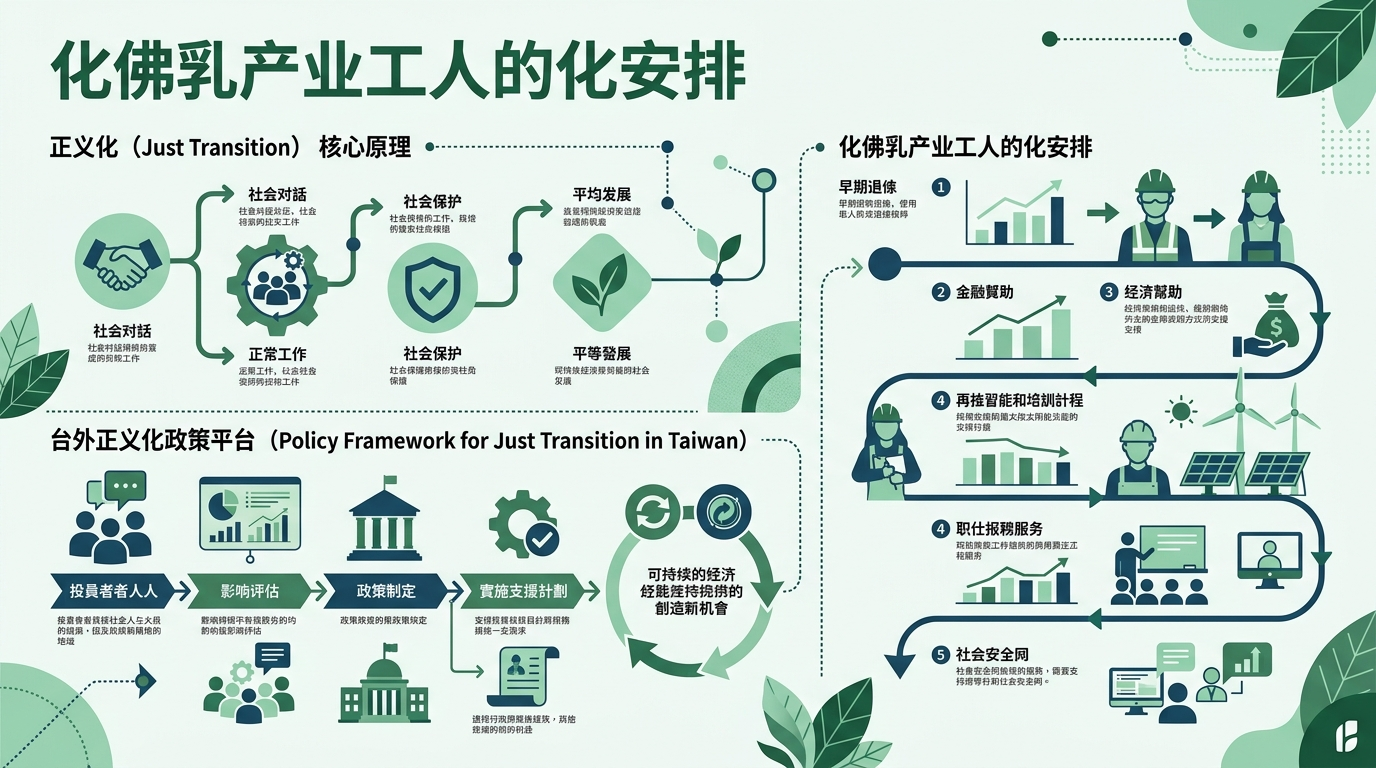
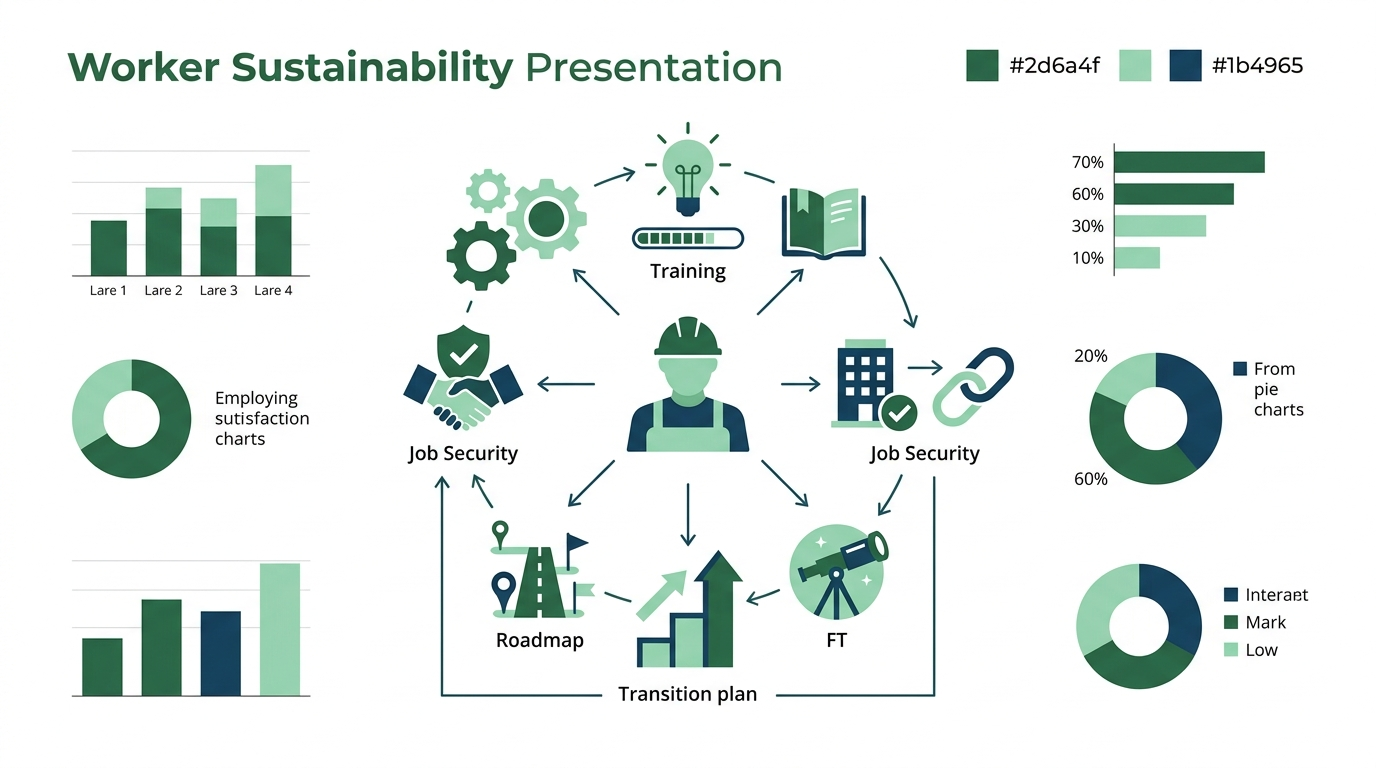
Add EP095: 公正轉型：確保沒有人在淨零路上掉隊

diff --git a/_episodes/EP095.md b/_episodes/EP095.md
@@ -1,5 +1,5 @@
 ---
-date: '2026-02-24'
+date: '2026-03-12'
 ep_id: EP095
 layout: episode
 number: 95
@@ -10,33 +10,143 @@ series_name: 永續策略、溝通與領導力
 slides:
 - image: slide1.png
   points:
-  - 公正轉型（Just Transition）的核心原則
-  - 化石燃料產業勞工的轉型安排
-  - 能源貧窮與碳費的累退效應
+  - 關懷弱勢
+  - 保障就業
+  - 能源平等
   title: 公正轉型
 - image: slide2.png
   points:
-  - 化石燃料產業勞工的轉型安排
-  - 公正轉型（Just Transition）的核心原則
-  - 台灣公正轉型的政策框架
-  title: 化石燃料產業勞工的轉型安排
+  - 培訓計畫
+  - 產業調整
+  - 就業保障
+  title: 勞工轉型
 - image: slide3.png
   points:
-  - 能源貧窮與碳費的累退效應
-  - 化石燃料產業勞工的轉型安排
-  - 台灣公正轉型的政策框架
-  title: 能源貧窮與碳費的累退效應
+  - 低收入戶
+  - 能源費負擔
+  - 救濟措施
+  title: 能源貧窮
 - image: slide4.png
   points:
-  - 台灣公正轉型的政策框架
-  - 能源貧窮與碳費的累退效應
-  - 公正轉型（Just Transition）的核心原則
-  title: 台灣公正轉型的政策框架
+  - 政府支持
+  - 產業合作
+  - 社會參與
+  title: 政策框架
 title: 公正轉型：確保沒有人在淨零路上掉隊
 ---
 
-# 公正轉型：確保沒有人在淨零路上掉隊
+這是一份關於「公正轉型：確保沒有人在淨零路上掉隊」的深度研究報告。本報告整合了 2025 年至 2026 年的最新政策脈絡、社會經濟分析以及台灣在地實踐案例，旨在為 Podcast 製作與專題影片提供紮實的論據與敘事框架。
 
-淨零轉型中的社會公平議題
+深度研究報告：公正轉型——淨零路上的社會契約
+前言：當綠色浪潮遇上社會現實
 
-> 研究報告產生中，敬請期待。
+在全球對抗氣候變遷的急迫壓力下，「淨零排放」（Net Zero）已從環保口號轉向強制的經濟轉型。然而，這場被譽為「第四次工業革命」的變革並非對所有人都是平等的。當煤電廠關閉、碳費徵收、燃油車逐步退出市場時，社會結構中的脆弱族群——從傳統高碳產業的藍領工人到入不敷出的低收入家庭——正站在衝擊的最前線。
+
+「公正轉型」（Just Transition）的核心命題在於：如果轉型的代價是由社會最弱勢的群體承擔，那麼這場綠色革命終將因缺乏社會正當性而失敗。 本報告將深入探討如何透過政策設計與企業責任，確保在邁向低碳未來的過程中，社會公平與經濟正義不被遺落。
+
+一、 公正轉型（Just Transition）的核心原則
+
+公正轉型並非單一政策，而是一套指導社會變遷的倫理與實踐框架。其起源可追溯至 1970 年代的工會運動，強調環境保護不應以犧牲勞工生計為代價。根據國際勞工組織（ILO）與聯合國氣候變遷大綱公約（UNFCCC）的共識，公正轉型包含以下三大核心維度：
+
+1. 分配正義（Distributive Justice）
+
+分配正義關注的是「成本與效益的公平分配」。在淨零過程中，綠色溢價（Green Premium）帶來的經濟收益（如綠能產業的利潤）往往集中於科技菁英與資本家，而轉型成本（如能源價格上漲、產業轉型失業）則由基層勞工與消費者負擔。公正轉型要求建立補償機制，確保綠色經濟的果實能惠及社會各階層。
+
+2. 程序正義（Procedural Justice）
+
+「沒有我們的參與，不要為我們做決定。」程序正義強調受影響群體——特別是勞工、原住民與地方社區——在決策過程中的實質參與。這不僅僅是開幾場公聽會，而是要建立制度化的勞、資、政三方對話平台。例如，當一座燃煤電廠計畫拆除時，工會應在決定下達的前三年就參與後續土地利用與員工轉置的規劃。
+
+3. 修復正義（Restorative Justice）
+
+修復正義關注的是過去受化石燃料污染影響嚴重的社區。轉型不應只是「停止污染」，更要「修復傷害」。這包括對舊工業區的環境治理、健康補償，以及利用綠能轉型的機會為這些曾經被犧牲的區域注入新的經濟動能。
+
+二、 化石燃料產業勞工的轉型安排
+
+隨著全球能源結構從「褐色」轉向「綠色」，傳統石化、鋼鐵及電力產業的勞工面臨嚴峻的就業威脅。根據 2026 年台灣氣候行動網絡（TCAN）的最新推估，台灣約有 235 萬名勞工 將直接或間接受到淨零轉型的衝擊，佔全國就業人口的 20%。
+
+1. 褐色工作消失後的失業風險
+
+高碳產業通常具有「高技術專一性」。一名在煉油廠工作二十年的技師，其技能在離岸風電場未必能直接對接。如果政府缺乏前瞻性的職能轉換規劃，這些勞工將面臨「結構性失業」。
+
+技能斷層： 綠色產業需要的是自動化控制、數據分析與電力系統工程，而傳統勞工的技能可能集中於機械維修與重工業操作。
+
+薪資缺口： 研究發現，新興綠能產業的起薪往往低於具有強大工會保障的傳統國營或重工業，這導致勞工對轉型產生強烈抵抗心理。
+
+2. 轉型安排的具體策略：澳洲與歐洲經驗
+
+為了避免大規模社會動盪，先進國家已開始實施「提前干預」模式：
+
+提前通知機制： 仿效澳洲做法，要求企業必須在關廠或大規模停產前 3 年正式通知勞工與社區，並啟動一對一的職涯諮商。
+
+技能護照： 推動勞工技能認證的數位化與模組化，讓勞工在職期間就能累積與綠能產業銜接的學分。
+
+社會保障網： 提供「轉型津貼」，補足勞工在職訓期間的收入缺口，並為屆齡退休的勞工提供提前退休的優厚選擇。
+
+三、 能源貧窮與碳費的累退效應
+
+淨零轉型的另一個核心挑戰在於「價格」。為了反映環境外部成本，碳費（Carbon Fee）與碳稅成為各國政府的必選工具。然而，這種基於消費或排放的徵收方式，往往具有顯著的累退效應（Regressive Effect）。
+
+1. 碳費對低收入家庭的衝擊
+
+對於富裕家庭而言，能源支出佔總預算的比率極低；但對於低收入家庭，電費、燃料費與因碳費轉嫁而上漲的民生物資，佔其可支配所得的比例極高。
+
+公式說明： 若碳費導致能源價格上漲 P，對家庭預算的衝擊 I 可表示為：
+
+I=
+Y
+E⋅ΔP
+	
+
+
+其中 E 為能源消費量，Y 為家庭總收入。當 Y 越小時，I 的數值越大，這就是典型的累退效應。
+
+2. 能源貧窮的陷阱
+
+「能源貧窮」定義為一個家庭必須將收入的 10% 以上用於支付必要的能源開支。在淨零轉型中，老舊住宅的節能改造需要大筆資本支出。低收入者往往租房居住或住在缺乏隔熱設施的老舊建築中，他們既無法負擔高效能家電，也無權改造建築結構，最終陷入「能源效率低 → 電費高漲 → 更加貧窮」的惡性循環。
+
+3. 政策應對：碳分紅與針對性補貼
+
+為了解決此問題，許多經濟學家建議採取「碳分紅」（Carbon Dividend）模式，即將收取的碳費 100% 以現金回饋給公民。由於低收入者的碳足跡通常較小，領到的分紅往往大於其額外支付的碳成本，從而實現財富的二次分配。
+
+四、 台灣公正轉型的政策框架與實踐案例
+
+台灣作為出口導向型經濟，正面臨極大的碳中和壓力。政府已將「公正轉型」納入《氣候變遷因應法》，並將其列為「淨零排放 12 項關鍵策略」之一。
+
+1. 法規名稱與關鍵機制
+
+《氣候變遷因應法》： 法條中明確規定，政府徵收碳費後，應成立「溫室氣體管理基金」，其用途必須包含「補助及獎勵執行溫室氣體減量工作、公正轉型及碳移除技術」。
+
+2026 國家公正轉型行動計畫： 行政院預計於 2026 年上半年正式核定此計畫，由國發會統籌，建立跨部會的補償與輔導機制。
+
+2. 企業案例：從抵觸到共榮
+
+中鋼公司（China Steel）： 作為高碳排大戶，中鋼不僅研發氫能冶金技術，更啟動內部「綠色職能培訓」，確保現有數千名操作員能轉換至智慧化生產線。
+
+富邦金控： 透過「永續轉型催化劑」策略，富邦不僅投資綠能，更針對中小企業提供低利「綠色轉型貸款」，協助資源匱乏的小型工廠進行碳盤查，避免其因無法對接供應鏈碳中和要求而倒閉。
+
+3. 地方視角：偏鄉與原住民社區
+
+在台灣的能源轉型中，許多光電與風電廠位於原住民傳統領域或漁村。過去的衝突事件促使政府推動「漁電共生」與「部落公民電廠」。2026 年的政策重點在於確保在地社群擁有電廠的股權或經營參與權，讓能源收益能回饋至偏鄉的長期照顧與教育支出。
+
+五、 最新趨勢與新聞整合（2025-2026）
+
+在此段落，我們引用三則具代表性的最新資訊，反映台灣公正轉型的現在進行式：
+
+勞工轉型風險： 2026 年 2 月，台灣氣候行動網絡（TCAN） 發布報告指出，石化、鋼鐵等產業的 7 大高碳企業在永續報告書中對「職務衝擊」的揭露嚴重不足。這提醒我們，企業在談論減碳技術的同時，往往忽略了背後的「人」。
+
+國家最高決策： 2026 年 2 月 24 日，總統賴清德 主持的首場國家氣候會議中，正式啟動「淨零沙盒」任務，特別強調透過 AI 賦能協助中小企業降低轉型門檻，確保「數位轉型」與「綠色轉型」雙軸並進，不讓小微企業因數位落差而掉隊。
+
+社會共融論壇： 2026 年 3 月的 天下 SDGs ╳ DEI 國際論壇 深度探討了脆弱族群的調適能力。會中強調，公正轉型不應只是被動的補貼，而是應捲動弱勢社群成為綠色轉型的參與者，例如培訓偏鄉青年成為綠能維運工程師。
+
+六、 結論：淨零不僅是科學，更是社會學
+
+淨零轉型的成敗，最終不取決於我們減少了多少噸二氧化碳，而取決於我們在過程中守護了多少人的尊嚴。公正轉型不是減碳的阻礙，而是減碳的加速器——因為唯有當勞工感受到保障、弱勢感受到支持、中小企業感受到機會時，全社會才會形成真正的共識，朝向 2050 淨零目標邁進。
+
+給企業與政策制定者的建議
+
+企業端： 應將「公正轉型」納入 ESG 報告書的核心，詳列勞資對話記錄與技能再培訓計畫，而非僅止於慈善捐款。
+
+政府端： 應加速「公正轉型基金」的預算到位，並建立動態監測機制，隨時調整因碳費上漲對脆弱家庭造成的負擔。
+
+下一步行動建议：
+您是否需要我針對石化業勞工或能源貧窮戶這兩類特定群體，擬定更具體的「Podcast 訪談大綱」或「劇本腳本」，以增加節目的人性溫度與衝突張力？
